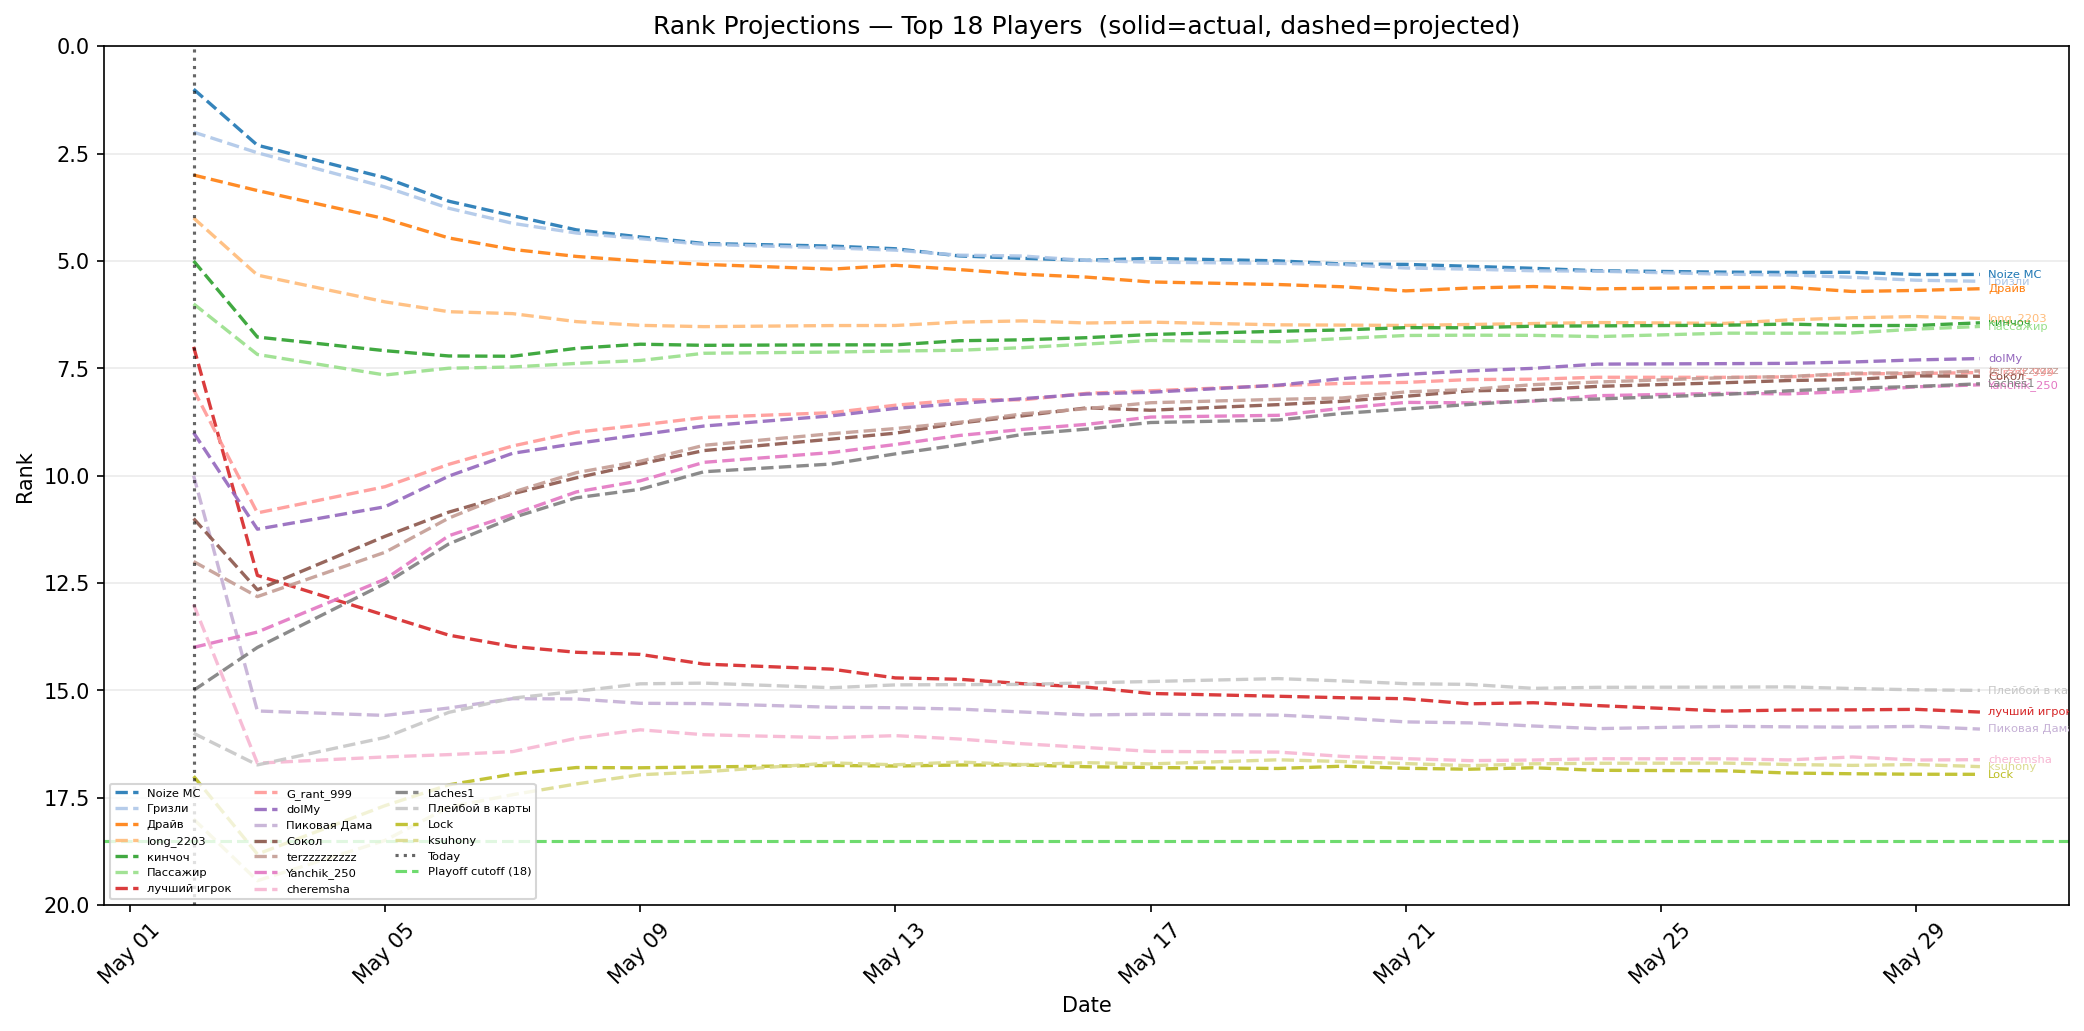
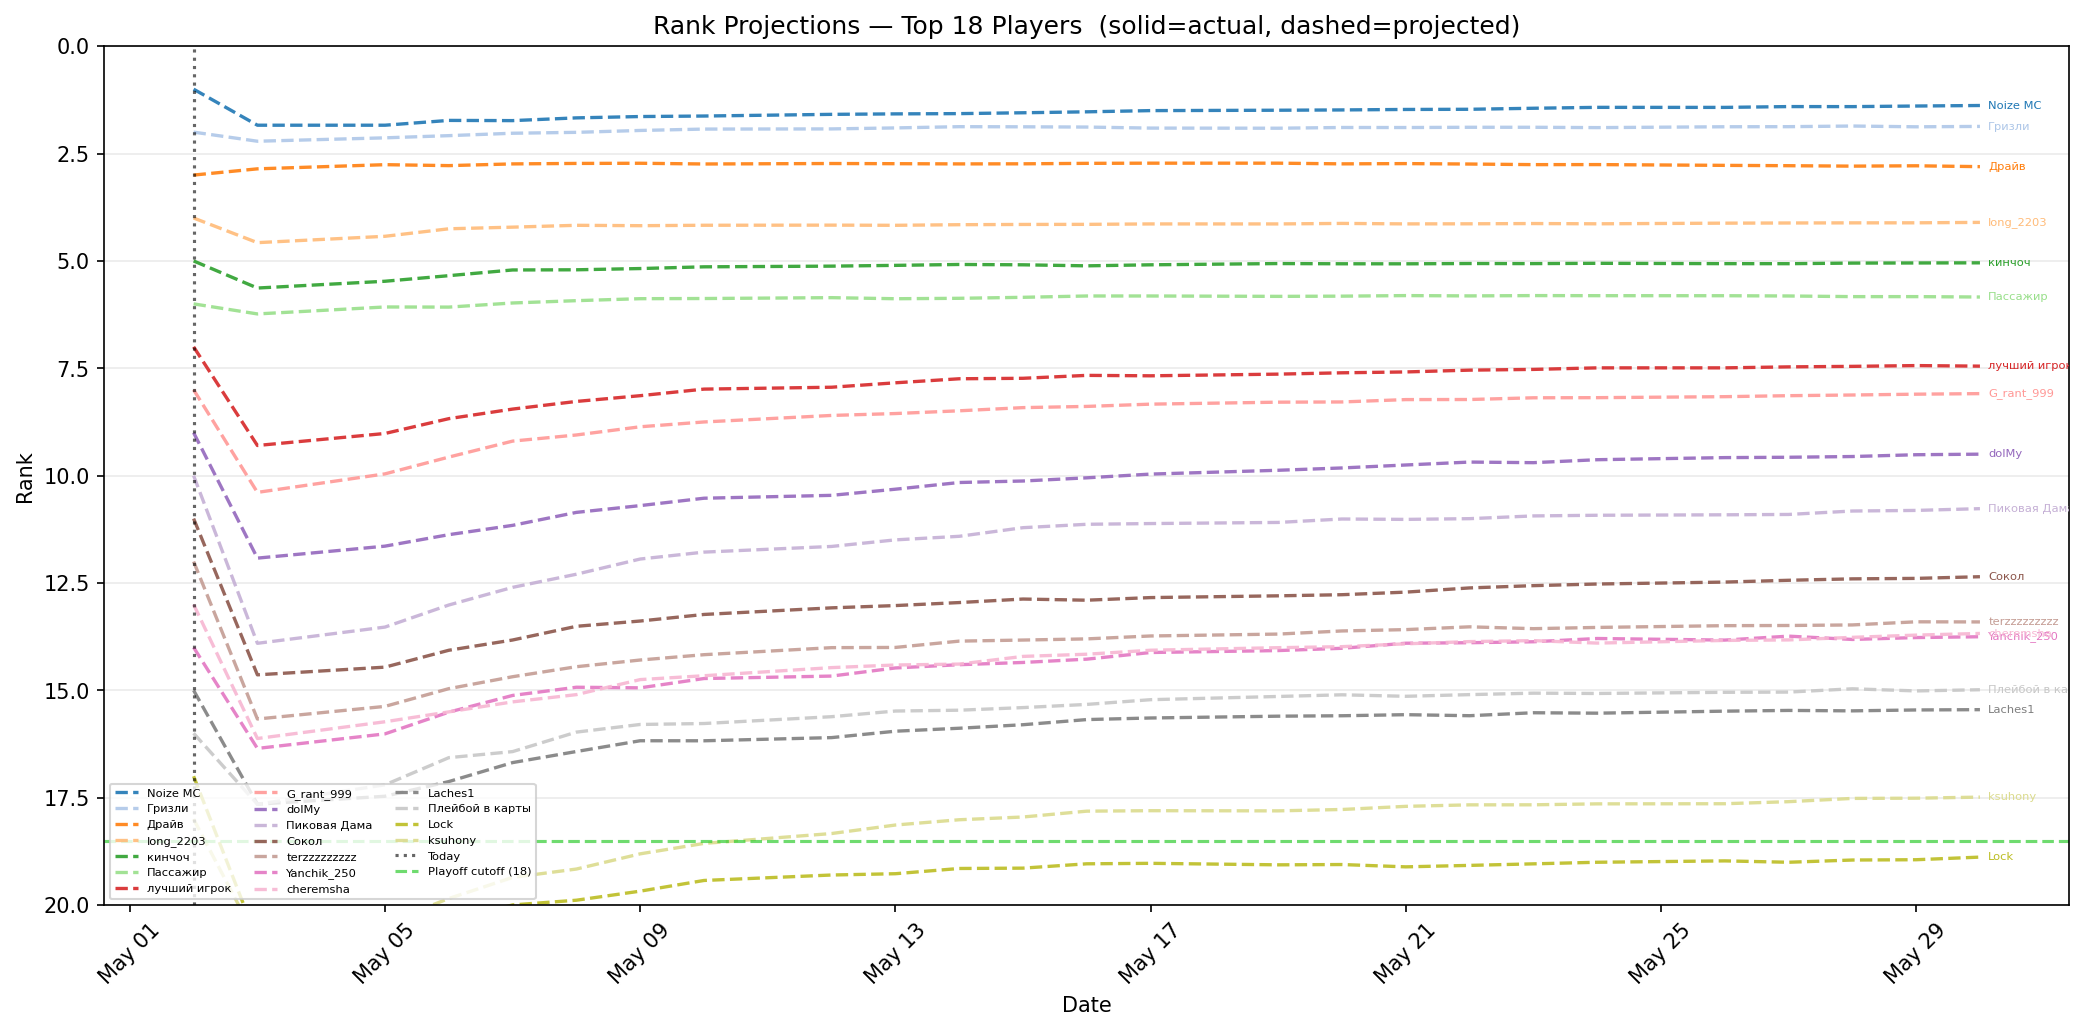
added april training

diff --git a/main.py b/main.py
@@ -62,8 +62,11 @@ def save_expected_ranking(final_ranking, path='data/expected_final_ranking.txt')
 # ── Main ──────────────────────────────────────────────────────────────────────
 
 RAW_PATH = 'data/raw_data.csv'
+APRIL_PATH = 'data/raw_data_april.csv'
 ODDS_CSV_PATH = 'data/playoff_odds.csv'
 ODDS_XLSX_PATH = 'data/playoff_odds.xlsx'
+USE_APRIL_FOR_TRAINING = True
+IGNORE_PLAYER_TENDENCIES_FOR_TRAINING = False
 
 # 0) Safe load + season-start handling (empty/missing raw data)
 if not os.path.exists(RAW_PATH) or os.path.getsize(RAW_PATH) == 0:
@@ -104,13 +107,31 @@ if df.empty:
 df['date'] = pd.to_datetime(df['date'])
 today = df['date'].max()
 
+def build_training_frame(current_df):
+    frames = [current_df.copy()]
+    if USE_APRIL_FOR_TRAINING and os.path.exists(APRIL_PATH) and os.path.getsize(APRIL_PATH) > 0:
+        april_df = pd.read_csv(APRIL_PATH)
+        if not april_df.empty:
+            april_df['date'] = pd.to_datetime(april_df['date'])
+            frames.append(april_df)
+
+    train_df = pd.concat(frames, ignore_index=True)
+    train_df['date'] = pd.to_datetime(train_df['date'])
+
+    if IGNORE_PLAYER_TENDENCIES_FOR_TRAINING:
+        train_df = train_df.reset_index(drop=True)
+        train_df['player_id'] = train_df.index.map(lambda i: f'anon_{i}')
+
+    return train_df
+
 # 1) Leaderboard files
 save_rankings(df, today)
 save_averages(df)
 
 # 2) Train model
 print("\n── Training model ──")
-df_features = build_features(df)
+train_df = build_training_frame(df)
+df_features = build_features(train_df)
 feature_cols = get_feature_columns(df_features)
 model = train_model(df_features, feature_cols)
 
